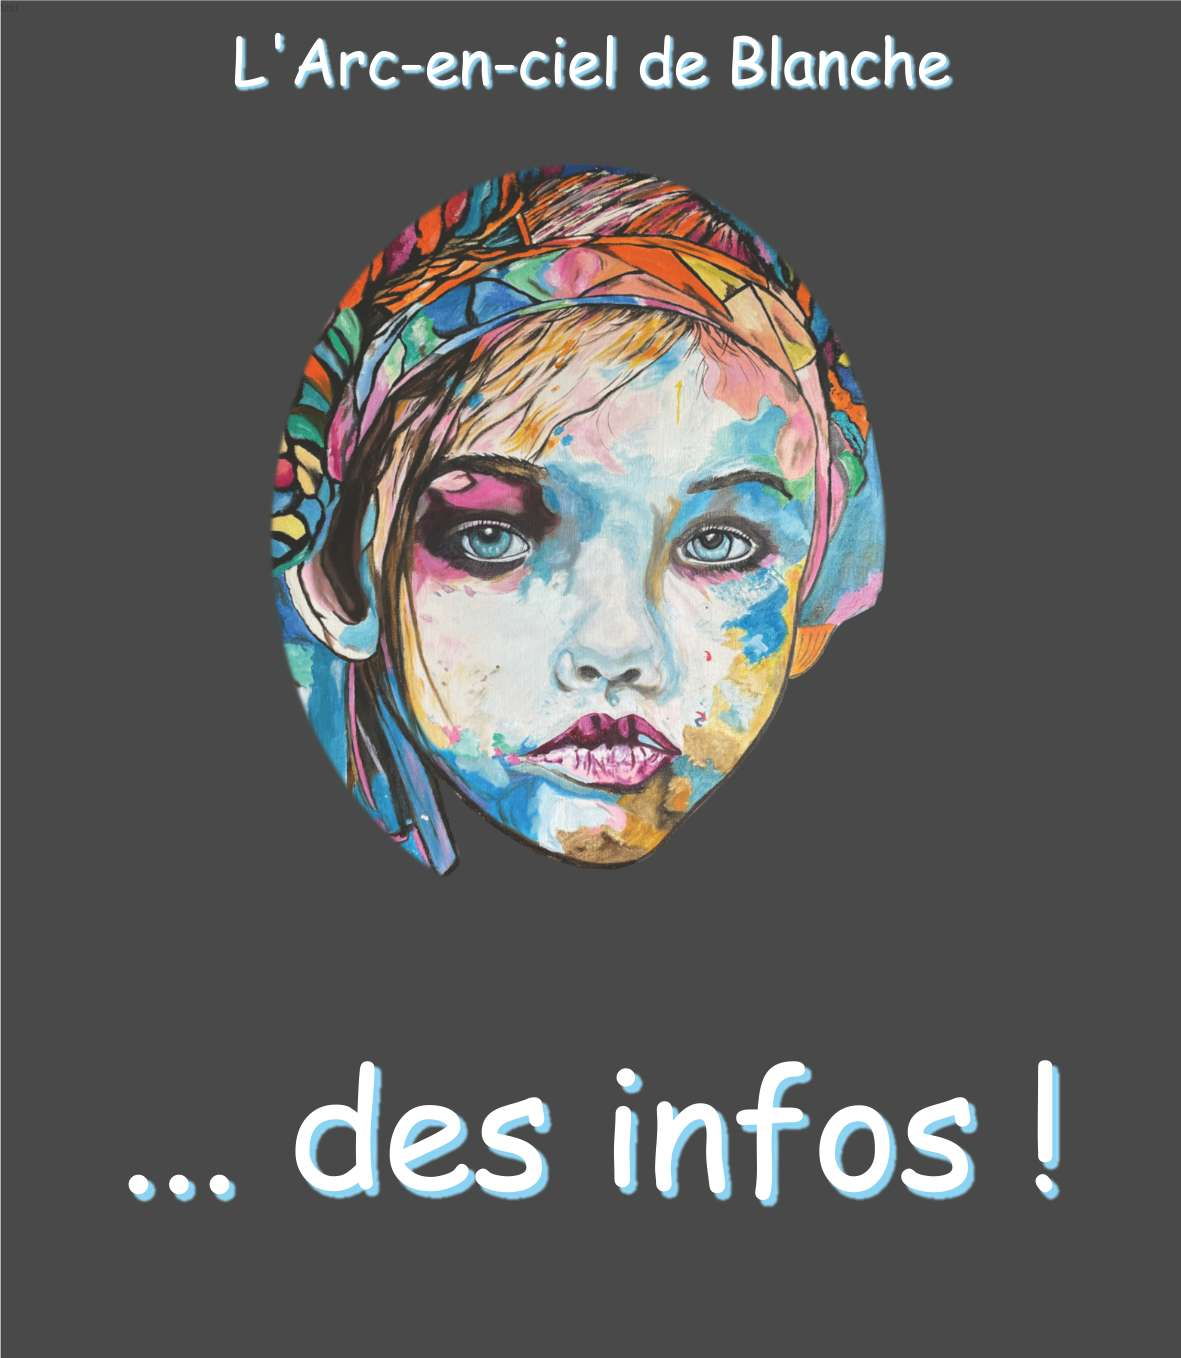
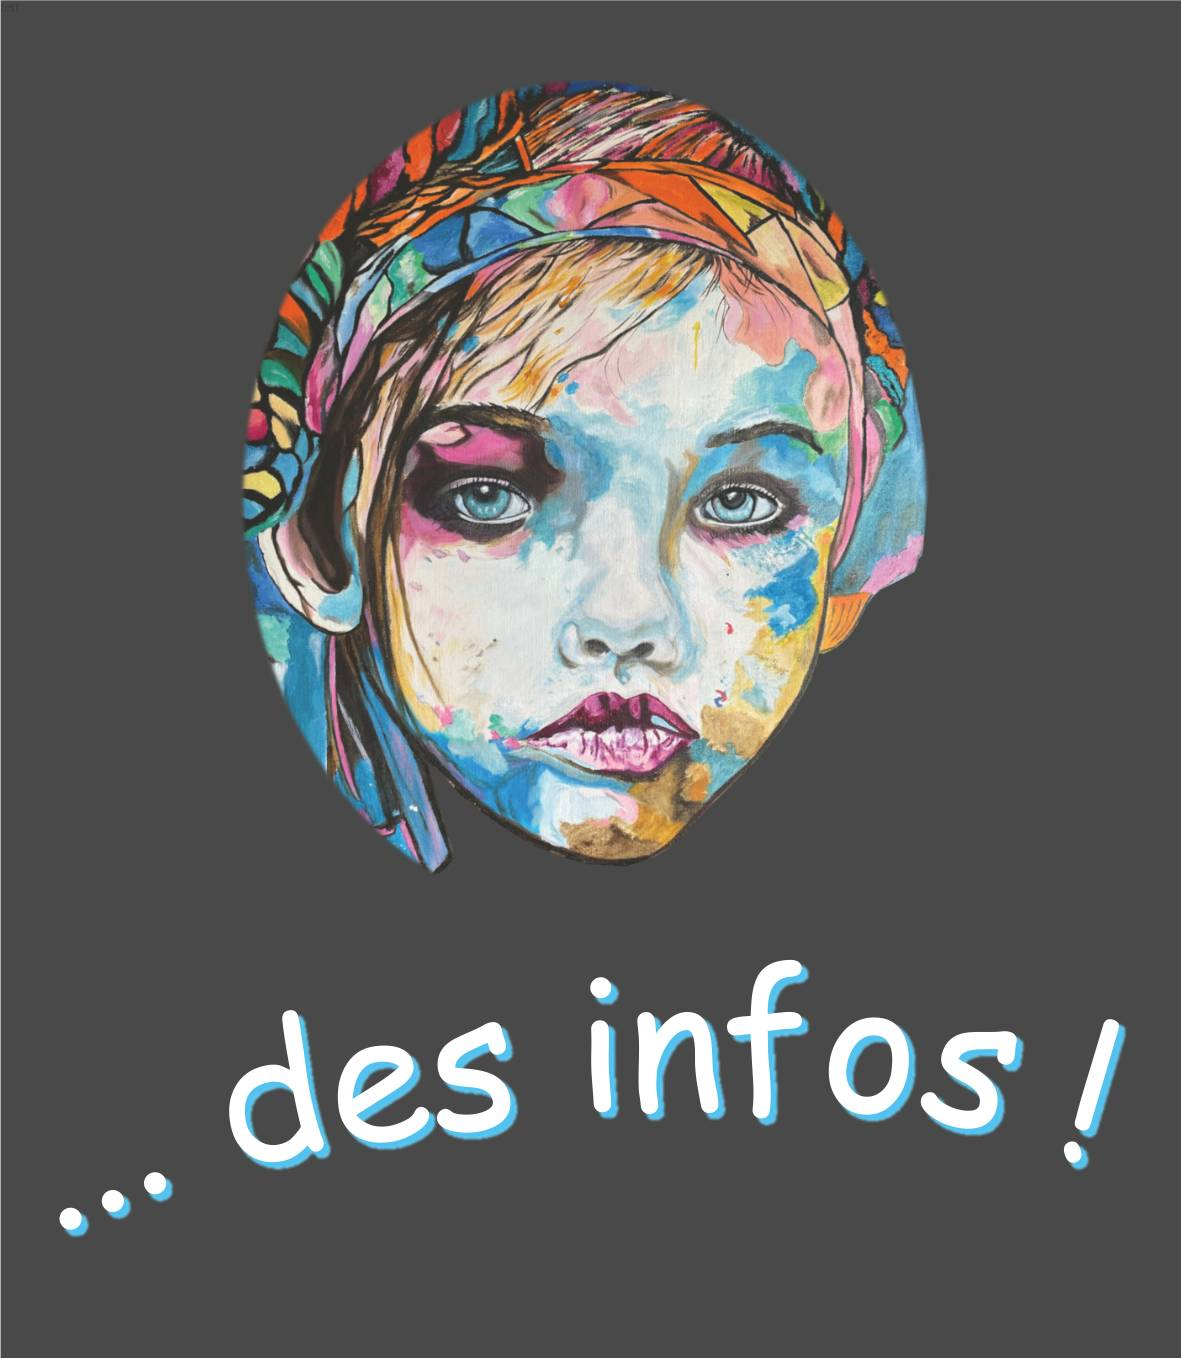
suite new look

Changed region(s): [[0.1829, 0.0309, 0.823, 0.6495], [0.0305, 0.7113, 0.9754, 0.9278]]

diff --git a/content/bienvenue/_index.md b/content/bienvenue/_index.md
@@ -9,6 +9,8 @@ draft: false
 #  phototitle: A title for the photo
 #  description: A sub-title or description for the photo
 resources:
+- src: "/bienvenue/bienvenue_intro.jpg"
+  weight: 10
 - src: "/bienvenue/billet_2.jpg"
   weight: 70
 - src: "/bienvenue/billet_1.jpg"
